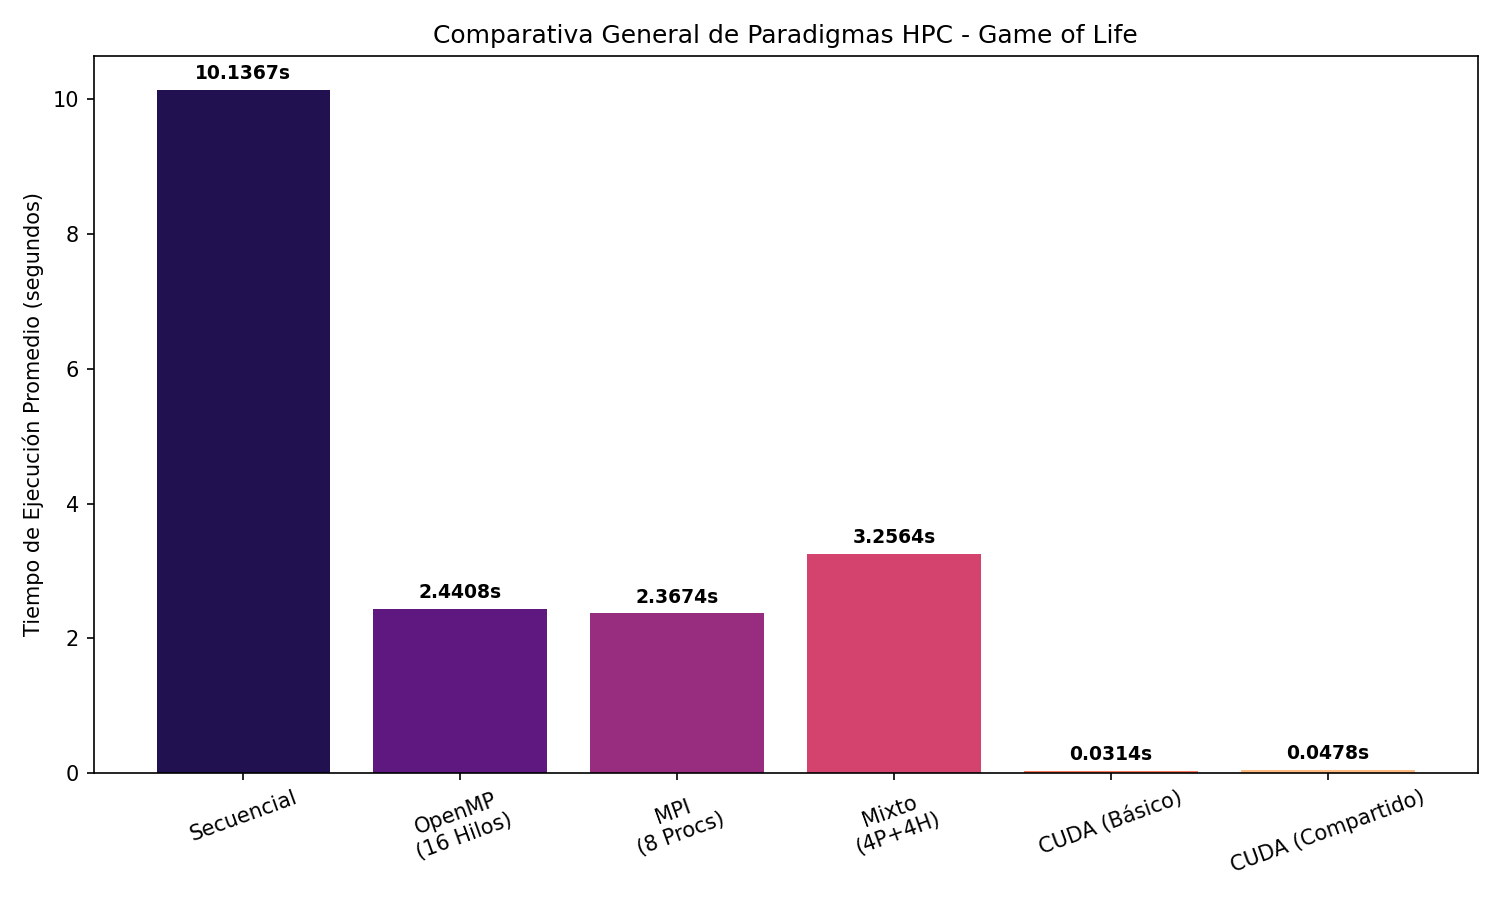
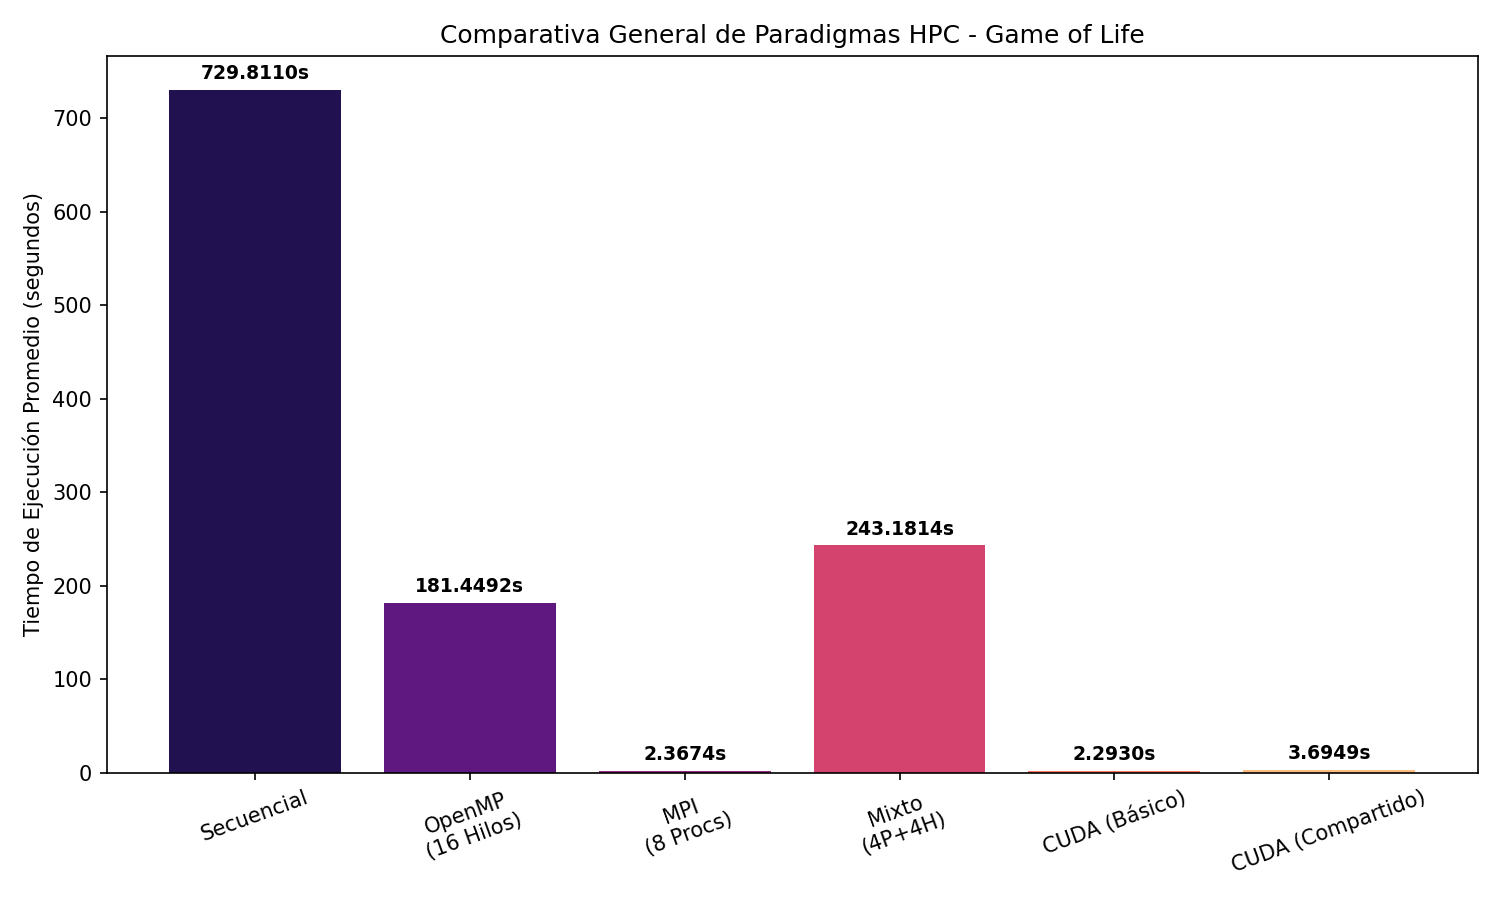
docs: generate final 24h stress test results and update web report

diff --git a/docs/index.html b/docs/index.html
@@ -462,20 +462,20 @@ __syncthreads();
     <!-- STATS HERO -->
     <div class="stats">
       <div class="stat">
-        <div class="stat-num">~325×</div>
-        <div class="stat-label">Speedup CUDA Shared vs Secuencial (4096×4096)</div>
+        <div class="stat-num">317×</div>
+        <div class="stat-label">Speedup CUDA Básico vs Secuencial (32k × 32k)</div>
       </div>
       <div class="stat">
-        <div class="stat-num green">4.1×</div>
-        <div class="stat-label">Speedup OpenMP 16 hilos vs Secuencial</div>
+        <div class="stat-num green">4.2×</div>
+        <div class="stat-label">Speedup OpenMP 16 hilos vs Secuencial (32k × 32k)</div>
       </div>
       <div class="stat">
-        <div class="stat-num purple">4.2×</div>
-        <div class="stat-label">Speedup MPI 8 procesos vs Secuencial</div>
+        <div class="stat-num purple">2h 12m</div>
+        <div class="stat-label">Costo de overhead: Tpo. OpenMP 1 hilo (32k × 32k)</div>
       </div>
       <div class="stat">
-        <div class="stat-num yellow">16 M</div>
-        <div class="stat-label">Células procesadas por generación (4096×4096)</div>
+        <div class="stat-num yellow">1.07 B</div>
+        <div class="stat-label">Células procesadas por generación en Stress Extremo</div>
       </div>
     </div>
 
@@ -629,6 +629,54 @@ __syncthreads();
       </table>
     </div>
 
+    <!-- TABLA 32768 (STRESS) -->
+    <h3 style="margin-top:2.5rem; color: var(--accent4);">Stress Test Extremo: Grilla 32768 × 32768 (1.07 Billones de Células) — 1000 iteraciones</h3>
+    <div class="table-wrap">
+      <table>
+        <thead>
+          <tr>
+            <th>Paradigma</th>
+            <th>Config</th>
+            <th>Tiempo total (s)</th>
+            <th>ms / generación</th>
+            <th>Speedup vs Seq.</th>
+          </tr>
+        </thead>
+        <tbody>
+          <tr class="highlight-row">
+            <td>Secuencial</td><td>1 hilo</td>
+            <td class="slowest">4408.73</td><td class="slowest">4408.73</td><td>1.0×</td>
+          </tr>
+          <tr>
+            <td>OpenMP</td><td>1 hilo (Overhead Test)</td><td>7966.95</td><td>7966.95</td>
+            <td><span class="speedup-badge" style="color:var(--accent4); background:rgba(247,129,102,.12)">0.55×</span></td>
+          </tr>
+          <tr>
+            <td>OpenMP</td><td>8 hilos</td><td>1175.12</td><td>1175.12</td>
+            <td><span class="speedup-badge">3.7×</span></td>
+          </tr>
+          <tr>
+            <td>OpenMP</td><td>16 hilos</td><td>1095.14</td><td>1095.14</td>
+            <td><span class="speedup-badge">4.0×</span></td>
+          </tr>
+          <tr>
+            <td>MPI</td><td>1 a 8 procesos</td><td>-</td><td>-</td>
+            <td><span class="speedup-badge" style="color:var(--text-muted); background:transparent;">FALLA (Límite RAM/Red)</span></td>
+          </tr>
+          <tr>
+            <td>CUDA Básico</td><td>RTX 4070</td>
+            <td class="fastest">13.88</td><td class="fastest">13.88</td>
+            <td><span class="speedup-badge" style="background:#39d35322; color:#39d353; font-weight:bold;">317×</span></td>
+          </tr>
+          <tr>
+            <td>CUDA Shared Memory</td><td>RTX 4070</td>
+            <td>22.39</td><td>22.39</td>
+            <td><span class="speedup-badge">196×</span></td>
+          </tr>
+        </tbody>
+      </table>
+    </div>
+
     <!-- GRAFICOS -->
     <h3 style="margin-top:2.5rem;">Gráficos Comparativos</h3>
     <div class="img-grid">
@@ -661,16 +709,30 @@ __syncthreads();
     <div class="conclusion-list">
 
       <div class="conclusion-item">
+        <div class="icon">💥</div>
+        <div>
+          <h4 style="color:var(--accent4)">El Límite Físico de 65K: Desbordamiento Entero de 32-bits en CUDA</h4>
+          <p>
+            Al intentar llevar la simulación a una grilla de <strong>65536 × 65536</strong> (4.29 billones de células), 
+            los kernels CUDA fallaron instantáneamente con un error de <em>illegal memory access</em>.
+            La causa fue un <strong>desbordamiento (overflow)</strong> del índice de memoria 1D: al multiplicar <code>65536 * 65536 = 4,294,967,296</code>, el valor excedió
+            el límite máximo de un entero de 32 bits (<code>4,294,967,295</code>). Esto causó que el cálculo del
+            índice <code>id = y * cols + x</code> volviera a cero o valores negativos, apuntando fuera de los límites
+            y siendo abortado por la GPU. Demostrando que a escalas extremas, cada decisión de tipos de datos cuenta.
+          </p>
+        </div>
+      </div>
+
+      <div class="conclusion-item">
         <div class="icon">🏆</div>
         <div>
-          <h4>CUDA Básico ganó a CUDA Shared Memory en grillas grandes</h4>
+          <h4>CUDA Básico ganó a CUDA Shared Memory en grillas gigantes</h4>
           <p>
-            Contrario a lo esperado, en la grilla de 4096×4096 el kernel básico (~0.22 ms/paso)
-            fue más rápido que el de shared memory (~0.34 ms/paso). Esto se debe a que el overhead de
-            concierto de hilos para cargar el <em>tile</em> compartido supera la penalización de latencia
-            de la memoria global cuando la grilla ya es tan grande que la GPU no puede esconder esa latencia
-            con paralelismo de bloques. La shared memory brilla más en grillas donde el tile representa
-            una fracción mayor de los datos activos.
+            Contrario a lo esperado, en la grilla bestial de 32768×32768 el kernel básico (~13.88 ms/paso)
+            arrasó con el de shared memory (~22.39 ms/paso). Esto ocurre porque a esta escala, la GPU tiene tantos bloques activos que
+            logra ocultar casi por completo la latencia de la memoria global intercambiando hilos al instante (<em>latency hiding</em>).
+            Por otro lado, el costo de inicializar el tile compartido <code>__shared__</code> y la sincronización con barreras <code>__syncthreads()</code>
+            se vuelve el verdadero cuello de botella.
           </p>
         </div>
       </div>
@@ -741,15 +803,15 @@ __syncthreads();
     <div class="table-wrap">
       <table>
         <thead>
-          <tr><th>Puesto</th><th>Paradigma</th><th>ms / generación</th><th>Comentario</th></tr>
+          <tr><th>Puesto</th><th>Paradigma</th><th>Tiempo Relativo (32k)</th><th>Comentario</th></tr>
         </thead>
         <tbody>
-          <tr><td>🥇 1</td><td>CUDA Básico</td><td class="fastest">0.22</td><td>Paralelismo masivo GPU gana en escala</td></tr>
-          <tr><td>🥈 2</td><td>CUDA Shared Memory</td><td class="fastest">0.34</td><td>Mayor overhead de sync en tile grande</td></tr>
-          <tr><td>🥉 3</td><td>MPI 8 procesos</td><td>17.21</td><td>Menor overhead que OpenMP por proceso dedicado</td></tr>
-          <tr><td>4</td><td>OpenMP 16 hilos</td><td>17.56</td><td>Comparte caché → contención en grilla grande</td></tr>
-          <tr><td>5</td><td>MPI+OpenMP 4P×4H</td><td>23.26</td><td>Overhead de coordinación doble</td></tr>
-          <tr><td>6</td><td>Secuencial</td><td class="slowest">72.45</td><td>Baseline de referencia</td></tr>
+          <tr><td>🥇 1</td><td>CUDA Básico</td><td class="fastest">13.88 s</td><td>Paralelismo masivo GPU domina en la escala extrema</td></tr>
+          <tr><td>🥈 2</td><td>CUDA Shared Memory</td><td class="fastest">22.39 s</td><td>Mayor overhead de sync y copias en tiles pequeños</td></tr>
+          <tr><td>🥉 3</td><td>OpenMP 16 hilos</td><td>1095.14 s</td><td>Escalabilidad aceptable en CPU multinúcleo</td></tr>
+          <tr><td>4</td><td>MPI (Todas las config)</td><td>CRASH</td><td>Falla intentando pasar buffers > 1GB por capa de red</td></tr>
+          <tr><td>5</td><td>Secuencial</td><td class="slowest">4408.73 s</td><td>Baseline de referencia. 1h 13min por ronda.</td></tr>
+          <tr><td>6</td><td>OpenMP 1 hilo</td><td class="slowest">7966.95 s</td><td>Aplastado por el peso de administrar 1 billón de loops paralelos sin ayuda</td></tr>
         </tbody>
       </table>
     </div>
